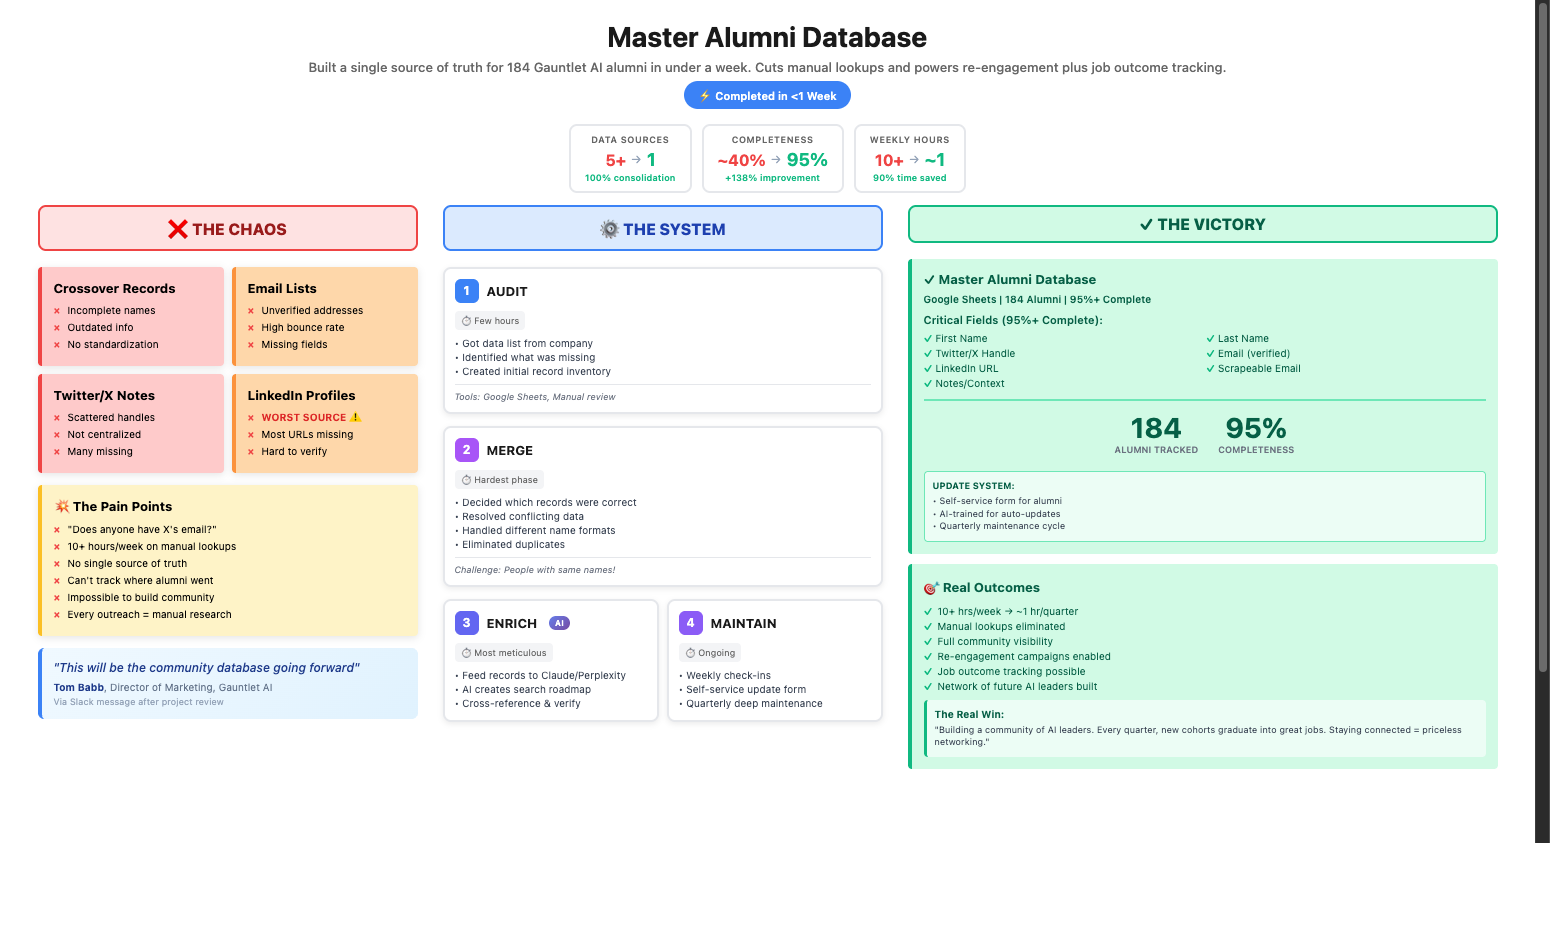
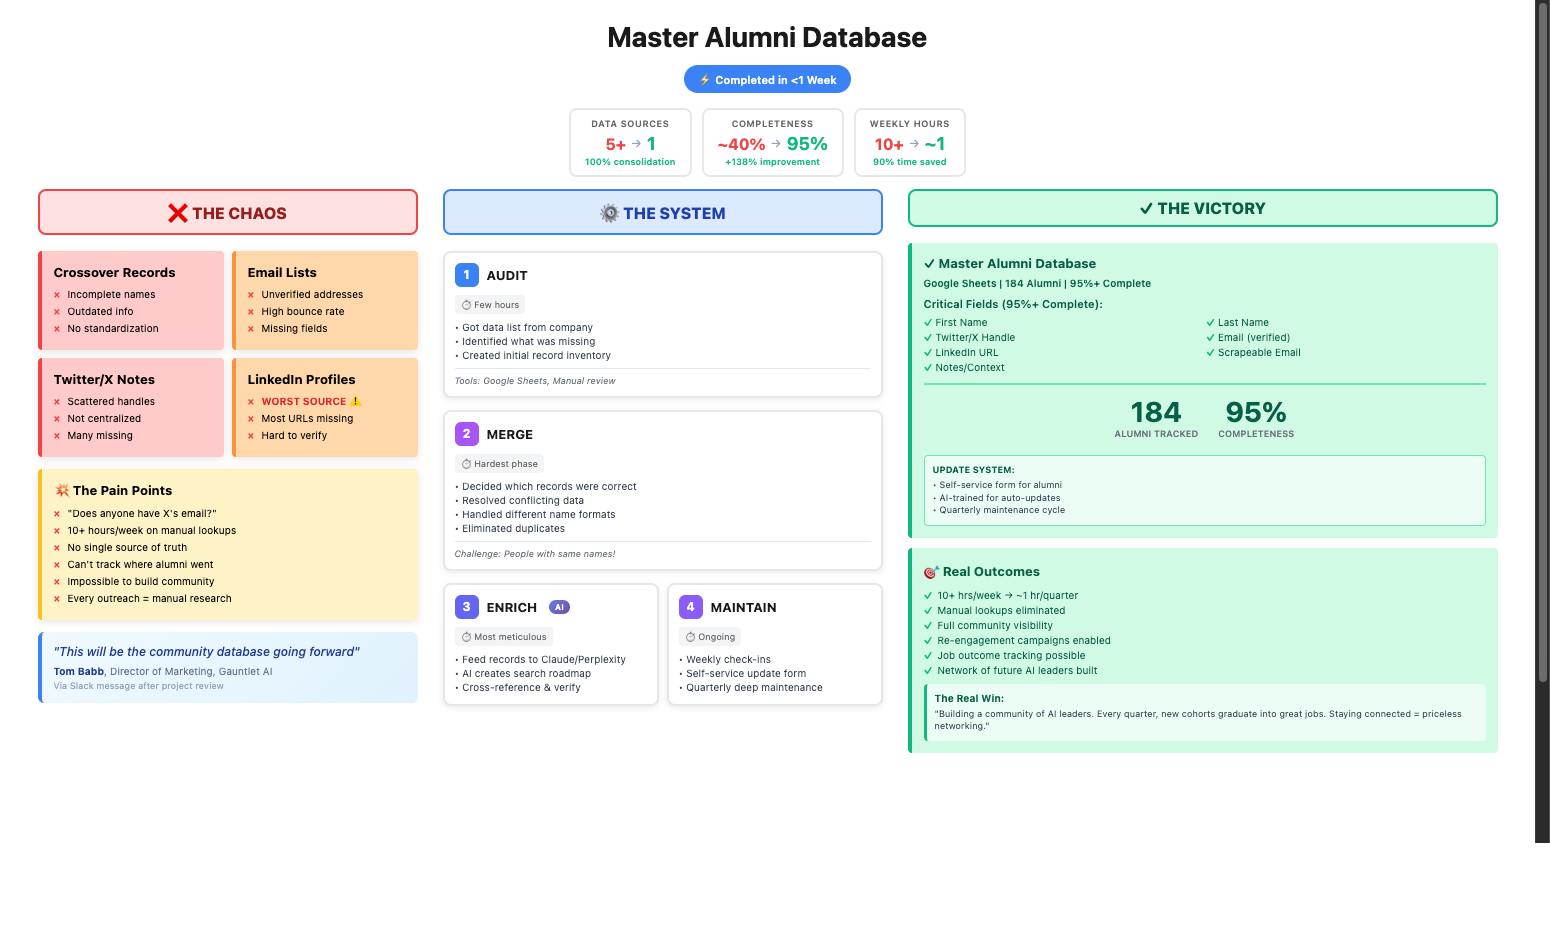
Add separate summary and visual description for Master Alumni Database
- Summary under title: storytelling intro about network value
- Visual description under image: describes the 4-phase process shown
- Removed subtitle from Miro dashboard PNG
- Added visualDescription field to asset types

Changed region(s): [[0.0, 0.0624, 0.991, 0.8419], [0.991, 0.7172, 1.0, 0.7484]]

diff --git a/pages/ProjectPage.tsx b/pages/ProjectPage.tsx
@@ -214,11 +214,21 @@ const ProjectPage: React.FC = () => {
                   className="flex flex-col gap-8 group"
                 >
                   {/* Asset Header */}
-                  <div className="flex items-center gap-4">
-                    <div className="w-10 h-10 rounded-full border border-white/10 flex items-center justify-center font-mono text-gray-500 text-sm">
-                      0{index + 1}
+                  <div className="space-y-4">
+                    <div className="flex items-center gap-4">
+                      <div className="w-10 h-10 rounded-full border border-white/10 flex items-center justify-center font-mono text-gray-500 text-sm">
+                        0{index + 1}
+                      </div>
+                      <h4 className="text-2xl md:text-3xl font-serif text-white">{asset.title}</h4>
                     </div>
-                    <h4 className="text-2xl md:text-3xl font-serif text-white">{asset.title}</h4>
+                    
+                    {asset.caption && (
+                      <div className="pl-14">
+                        <p className="text-gray-300 font-light leading-relaxed text-base md:text-lg">
+                          {asset.caption}
+                        </p>
+                      </div>
+                    )}
                   </div>
 
                   {/* Visual Media Container */}
@@ -272,15 +282,15 @@ const ProjectPage: React.FC = () => {
                       )}
                     </div>
                     
-                    {/* Caption Section */}
-                    {asset.caption && (
+                    {/* Visual Description Section (under the image) */}
+                    {(asset.visualDescription || asset.caption) && (
                       <div className="px-5 py-4 border-t border-white/5 bg-[#141414]">
                         <div className="flex gap-3">
                           <div className="mt-0.5 text-indigo-400">
                             <Info size={16} />
                           </div>
                           <p className="text-sm text-gray-400 font-light italic leading-relaxed">
-                            {asset.caption}
+                            {asset.visualDescription || asset.caption}
                           </p>
                         </div>
                       </div>

diff --git a/data/projects.ts b/data/projects.ts
@@ -89,7 +89,8 @@ export const projects: ProjectWithSlug[] = [
         title: 'Master Alumni Database',
         type: 'image',
         url: '/assets/alumni-database.png',
-        caption: 'Built a single source of truth for 184 Gauntlet AI alumni, transforming scattered records into a living community database in under one week.',
+        caption: 'Built a Master Database for 184 Gauntlet AI alumni in under a week. Your network is powerful, and keeping in contact is essential for building lasting business relationships.',
+        visualDescription: 'Visual breakdown of the 4-phase process: Audit → Merge → Enrich → Maintain. Shows the chaos of 5+ scattered data sources transformed into a unified 184-alumni database at 95% completeness.',
         challenge: "• No central database; contact info scattered across Crossover exports, email lists, and random spreadsheets\n• LinkedIn URLs and verified emails were the hardest to find\n• Team constantly asking \"does anyone have X's email?\" created pure manual chaos\n• No way to track where alumni landed or build lasting community",
         solution: "• Audit (few hours): Got raw data from company, inventoried all records, identified gaps\n• Merge (hardest phase): Resolved conflicts, handled same-name duplicates, standardized formats\n• Enrich (AI-powered): Fed missing records to Claude/Perplexity, searched \"Gauntlet AI + [name]\" on Twitter, cross-referenced and verified\n• Maintain (ongoing): Weekly check-ins, self-service update form, AI-trained for future lookups",
         outcome: '184 alumni tracked at 95% completeness (name, email, X handle verified). Reduced manual work from 10+ hrs/week to ~1 hr/quarter. Unlocked re-engagement campaigns, job outcome tracking, and a network of future AI leaders.'

diff --git a/types.ts b/types.ts
@@ -6,6 +6,7 @@ export interface ProjectAsset {
   url?: string; // Optional now, used for image/video types
   poster?: string; // Optional thumbnail/poster for video assets
   caption?: string; // Optional caption for visual evidence
+  visualDescription?: string; // Optional description shown under the image/video
   
   // New Comparison Fields
   beforeImage?: string;

diff --git a/public/assets/alumni-database.html b/public/assets/alumni-database.html
@@ -504,7 +504,6 @@
     <!-- Title -->
     <div class="board-title">
       <h1>Master Alumni Database</h1>
-      <p>Built a single source of truth for 184 Gauntlet AI alumni in under a week. Cuts manual lookups and powers re-engagement plus job outcome tracking.</p>
       <div class="timeline-badge">⚡ Completed in &lt;1 Week</div>
     </div>
 
